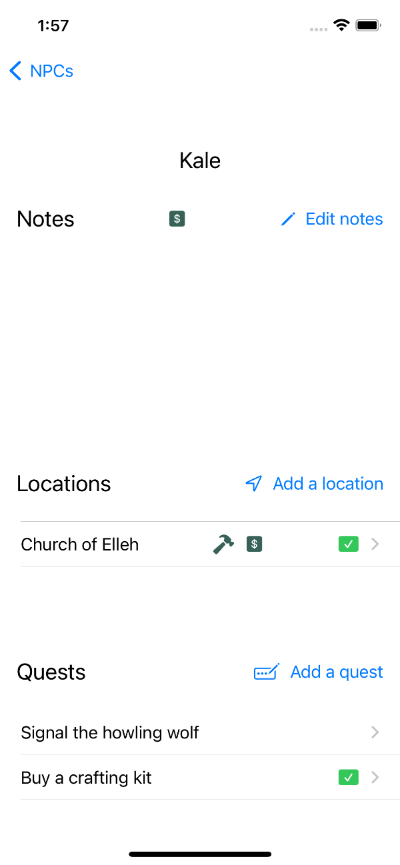
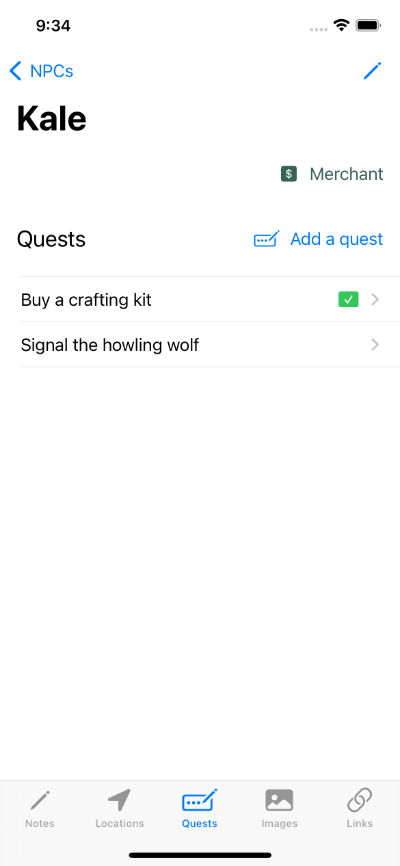
Update website for version 1.3.0

diff --git a/content/app/track-bosses/index.md b/content/app/track-bosses/index.md
@@ -2,7 +2,7 @@
 title: "Track Bosses in your favorite RPGs"
 subtitle: "Details on tracking Bosses with the Shattered Ring app."
 excerpt: "Find out how you can use the Shattered Ring iOS App to track Bosses in your favorite
-RPGs."
+RPGs. Save notes, images, and links for Bosses, and link them to location where you'll find them."
 date: 2022-03-03
 author: "Dachary Carey"
 draft: false
@@ -27,7 +27,8 @@ defeated or undefeated bosses.
 From the Boss list, you can easily browse bosses and see at-a-glance which ones
 you have defeated. You can view all bosses by default, or filter the list to see 
 only defeated or undefeated bosses. A green crown icon at the right of a boss row 
-indicates the boss is defeated.
+indicates the boss is defeated. A green arrow in the boss row means the boss is at
+a specific location.
 
 The search field lets you find Bosses by name, _and_ it also searches the text of the 
 notes you've added for each boss. Read online about a legendary piece of loot a boss
@@ -36,18 +37,40 @@ and you can find which boss dropped it later by searching for it.
 
 ## Track important Boss details
 
-![Screenshot of Boss details on Shattered Ring app, iPhone](boss-detail-light-mode-simulator-cropped.png)
+![Screenshot of Boss details on Shattered Ring app, iPhone](boss-detail-runebear-links-tab-light-mode-simulator-resized-for-website.png)
 
 The Boss view is where you can store details about the bosses you're tracking. 
 
 The top part of the boss view contains a clickable toggle to keep track of whether you've defeated the boss.
 
-Below that, you'll see a boss's location, if you've added one. When you add a boss's location, you can 
-choose from an existing [Location](/app/track-locations/), or create a new one. Bosses only have one location.
+Below that, you'll see a a tabbed view where you can drill deeper into boss details:
 
-And finally, you'll see notes associated with your boss. You can add or edit notes from here. 
-The note area is a scrollable field, so there's no end to how much text you can have in the notes 
-for each boss.
+- Notes
+- Location
+- Images
+- Links
+
+### Notes
+
+When you go into the boss view, the first thing you see is notes associated with your boss. You can add or 
+edit notes from here. You might use this to make note of the items that a boss drops, or strategies for fighting the boss. 
+The note area is a scrollable field, so there's no end to how much text you can have in the notes for each boss. Remember
+that the boss list lets you Search by boss notes, not just name, so if you want to know which boss drops that item you've 
+been looking for, add it to the notes field!
+
+### Location
+
+You can add a location to a boss. When you add a boss's location, you can choose from an existing [Location](/app/track-locations/), or create a new one. Bosses only have one location.
+
+### Images
+
+You can save images to the boss view. Get an epic screenshot during your boss fight and commemorate it. Or if the boss
+tends to roam an area, as in the case of a field boss, you can take a screenshot of the map where you expect to find the boss.
+
+### Links
+
+Save links to your favorite websites related to the boss. Do you have a favorite game guide for how to defeat the boss? Save it here. 
+Want to keep track of what the boss drops? Save the wiki entry. When you click the link, it opens the page in a browser on your iOS device.
 
 ## Easily enter new Bosses
 
@@ -60,6 +83,6 @@ From the Boss list, click the plus icon in the upper-right corner of the screen 
 
 In the new boss form, you can add a name, flip a toggle if the boss is defeated, and hit the `Create Boss` button. You can also add notes when you create the boss, or you can go back later and add them when viewing boss details.
 
-After you create the boss, you can go to the boss's detail view to add a location.
+After you create the boss, you can go to the boss's detail view to add a location, images, or links.
 
 If you create the boss from the location view, the boss is automatically populated with the location whose view you created the boss from.

diff --git a/content/app/track-locations/index.md b/content/app/track-locations/index.md
@@ -2,7 +2,7 @@
 title: "Track Locations in your favorite RPGs"
 subtitle: "Details on tracking Locations with the Shattered Ring app."
 excerpt: "Find out how you can use the Shattered Ring iOS App to track Locations in your favorite
-RPGs."
+RPGs. Save notes, images, and links for locations, and view NPCs or the Boss at a location."
 date: 2022-03-05
 author: "Dachary Carey"
 draft: false
@@ -33,7 +33,12 @@ icons next to `Church of Elleh` in this screenshot give you a quick snapshot:
 
 - The hammer icon means there is a smith anvil at this location
 - The dollar sign icon means there is a merchant at this location
+- The person icon means that there is at least one NPC at the location
 - The green checkmark means the location has been cleared
+
+Farther down, you can see a location with an outline of a crown. That means there's
+a boss at the location. (When the crown is filled in, the boss at the location 
+is defeated!)
 
 You can view all locations by default, or filter the list.
 
@@ -53,18 +58,41 @@ you'll be able to find your location again!
 
 ## Track important Location details
 
-![Screenshot of Location details for Church of Elleh on Shattered Ring app, iPhone](location-detail-church-light-mode-simulator.png)
+![Screenshot of Location details for Limgrave Tunnels on Shattered Ring app, iPhone](location-detail-limgrave-tunnels-light-mode-simulator.png)
 
 The Location view provides details about your important locations. 
 
-The top part of the location view contains a clickable toggle to keep track of whether you've cleared a location. You can also view and edit amenities that are at the location.
+The top part of the location view contains a clickable toggle to keep track of whether you've cleared a location. You can also view and edit amenities that are at the location usin the clickable toggles.
 
-Below that, you'll see location notes, if you've added any. You can edit notes from here. The note area is a scrollable field, so there's no end to how much text you can have in the notes for each location.
+Below that, you'll see a tabbed view where you can drill deeper into location details:
+
+- Notes
+- NPCs
+- Boss
+- Images
+- Links
+
+### Notes
+
+When you open the location view, the first thing you see is location notes, if you've added any. You can edit notes from here. The note area is a scrollable field, so there's no end to how much text you can have in the notes for each location. Remember that the Location List view lets you search the text of the location notes, so if you want to be able to search for a location where you can find a specific item, or with monsters that give a certain type of drop, note it down! Then you can search for it in the Locations list.
+
+### NPCs
 
 You can view NPCs that are at the location, or add new NPCs when NPCs move around. You can click
 into an NPC at a location to view all of their details, such as notes or quests the NPC has given you. For more details, see: [NPCs](/app/track-npcs/).
 
+### Boss
+
 You can view a boss at the location, or add a new boss from the location view. You can click into a boss at a location to view notes you've saved about the boss, or to mark it defeated. For more details, see: [Bosses](/app/track-bosses/).
+
+### Images
+
+You can save images to the location view. This is great if you want to grab a screenshot of 
+the location on the map so you can find it again later more easily.
+
+### Links
+
+Save links to your favorite websites that give you tips for a location. Is there a location walkthrough you want to reference? Save it as a link to the location. When you click the link, it opens the page in a browser on your iOS device.
 
 ## Easily enter new Locations
 

diff --git a/content/faq/index.md b/content/faq/index.md
@@ -43,11 +43,9 @@ or send us an email via [the Support form](/contact/) to request a feature.
 When I have time to add new features to the app, I'll put up a Twitter
 poll to help me prioritize which features to add first.
 
-Currently, features that have been requested include (updated March 17, 2022):
+Currently, features that have been requested include (updated March 31, 2022):
 
 - Preload NPC, Location and Quests data for users to check off
-- Support for adding photos to NPCs, Locations and Quests
-- Link characters/locations/quests to their respective Wiki entries
 - Add the ability to track Regions, with Locations belonging to a Region
 - Translate the Shattered Ring app to other languages (so far I've had requests for Italian, French, and German)
 - Add the ability to track Items, possibly with types like Weapon, Consumable, Key Item, Equipment, Spell, etc. Link them to locations and/or NPC merchants.
@@ -58,10 +56,11 @@ Feature Requests Completed:
 - Add ability to to edit names of NPCs, Locations, and Quests: Release 1.1.0 adds the ability to edit names
 - Add ordering for lists (alphabetical, and/or potentially the ability to move items in lists manually): Release 1.2.0 adds the ability to sort lists alphabetically using the Sort toggle in the menu bar, or you can use the Edit button to manually drag items around in the list. Sort and Edit are mutually exclusive, so if you have the Sort toggle enabled, you won't see the Edit button - untoggle Sort if you want to drag an important item to the top of the list.
 - Add the ability to track Bosses to the app: Release 1.2.0 adds Bosses to the app; you can now create them, view them at locations, add notes to them, and track the ones you've defeated. The Game list now shows defeated vs. undefeated boss counts.
+- Support for adding photos to NPCs, Locations and Quests: Release 1.3.0 adds the ability to save images to NPCs, Locations, Quests, and Bosses. Grab a picture of the game map and save it to the location so it's easier to find again, or get an epic screenshot of a boss fight and save it to your defeated boss. (Or if you don't defeat the boss, save it as a reminder to go back when you're better equipped!) There is a new **Images** tab where you can save as many images as you'd like.
+- Link characters/locations/quests to their respective Wiki entries: Release 1.3.0 adds the ability to add links to NPCs, Locations, Quests, and Bosses. There is a new **Links** tab where you can save as many links as you'd like. Add a link to your favorite wiki, and a link to a walkthrough guide, and a link to items a boss drops or an NPC's inventory - whatever you want to link to! The links are clickable from the app, and open in your iOS device's browser.
 
 I do intend to keep developing Shattered Ring as long as folks are interested
-in using it, so I'm happy to hear any feature requests you might
-have and hope to start shipping new features shortly!
+in using it, so I'm happy to hear any feature requests you might have.
 
 ## Why do the Android and iOS versions of Shattered Ring not have the same features?
 

diff --git a/content/app/track-npcs/index.md b/content/app/track-npcs/index.md
@@ -2,7 +2,7 @@
 title: "Track NPCs in your favorite RPGs"
 subtitle: "Details on tracking NPCs with the Shattered Ring app."
 excerpt: "Find out how you can use the Shattered Ring iOS App to track NPCs in your favorite
-RPGs."
+RPGs. Save notes, images, and links for NPCs, and link them to locations and the quests they give."
 date: 2022-03-06
 author: "Dachary Carey"
 draft: false
@@ -48,17 +48,46 @@ If you jot down that note, you'll be able to find your NPC again!
 
 ![Screenshot of NPC details for Kale on Shattered Ring app, iPhone](npc-detail-kale-light-mode-simulator.png)
 
-The NPC view provides details about your important NPCs. This is where you go to view NPC notes,
-if you've added any. You can edit notes from here, and the note area is a scrollable field, so there's
-no end to how much text you can have in the notes for each NPC.
+The NPC view provides details about your important non-player characters. 
+
+The top part of the NPC view contains a clickable toggle to note whether the NPC is a merchant.
+You can use this in the NPC list to filter on NPCs that are merchants.
+
+Below that, you'll see a tabbed view where you can drill deeper into NPC details:
+
+- Notes
+- Locations
+- Quests
+- Images
+- Links
+
+### Notes
+
+When you open the NPC view, the first thing you'll see is NPC notes. You can edit notes from here, and the note area is a scrollable field, so there's no end to how much text you can have in the notes for each NPC. Keep track of important bits of dialogue, or note down items that the NPC sells. Remember that you can search the contents of notes from the NPC list view, so if you can't remember which NPC sells the item you're looking for, jot it down for the notes and then search for it later in the NPC list!
+
+### Locations
 
 You can view the location of an NPC, or add new locations to the NPC if the NPC moves around. 
 The location list shows you amenities that are at the location, and whether or not you've
 cleared a location. For more details, see: [Locations](/app/track-locations/).
 
+### Quests
+
 You can also view the quests that the NPC has given you, or add new quests as the game progresses.
 The quest list shows a green checkbox for quests you have completed. For more details, see: 
 [Quests](/app/track-quests/).
+
+### Images
+
+You can store images for the NPC. Grab a screenshot of the NPC's inventory if you don't
+want to type it all out in the notes, or just a screenshot to help you remember what they look like
+so you can more easily find the NPC again. You can also grab a screenshot of the map to help you
+remember where to find an NPC. 
+
+### Links
+
+Save links to your favorite websites that give you the information you want about your NPCs. Is there a great walkthroughs for NPC quests? Save a link to it. Do you want to reference lore about the NPC?
+Add a link to the NPC's wiki. When you click a link, it opens the page in a browser on your iOS device.
 
 ## Easily enter new NPCs
 

diff --git a/content/app/track-quests/index.md b/content/app/track-quests/index.md
@@ -2,7 +2,7 @@
 title: "Track Quests in your favorite RPGs"
 subtitle: "Details on tracking Quests with the Shattered Ring app."
 excerpt: "Find out how you can use the Shattered Ring iOS App to track Quests in your favorite
-RPGs."
+RPGs. Save notes, images, and links for quests, and link them to NPCs who give them."
 date: 2022-03-04
 author: "Dachary Carey"
 draft: false
@@ -36,18 +36,45 @@ quest again!
 
 ## Track important Quest details
 
-![Screenshot of Quest details on Shattered Ring app, iPhone](quest-detail-signal-wolf-light-mode-simulator-cropped.png)
+![Screenshot of Quest details on Shattered Ring app, iPhone](quest-detail-erd-tree-light-mode-simulator-cropped.png)
 
 The Quest view provides details about your important quests. 
 
 The top part of the quest view contains a clickable toggle to keep track of whether you've completed the quest.
 
-Below that, you'll see a quest giver, if you've added one. When you add a quest-giver, you can 
-choose from an existing [NPC](/app/track-npcs/), or create a new one. Quests only have one quest giver.
+Below that, you'll see a tabbed view where you can drill deeper into quest details:
 
-And finally, you'll see notes associated with your quest. You can add or edit notes from here. 
+- Notes
+- Quest Giver
+- Images
+- Links
+
+### Notes
+
+When you open the quest view, you'll see notes associated with your quest. You can add or edit notes from here. 
 The note area is a scrollable field, so there's no end to how much text you can have in the notes 
-for each quest.
+for each quest. 
+
+Remember that the Quest list lets you search the text of quest notes, so if you want to search for a quest that gives you a specific item as a reward, or requires a specific item to complete it, jot it down in the notes. Then you can search for that item later when you want to remember which quest it was for or which quest giver has the item you want!
+
+### Quest Giver
+
+When you click into this tab, you'll see a quest giver, if you've added one. When you add a quest-giver, you can choose from an existing [NPC](/app/track-npcs/), or create a new one. Quests only have one quest giver.
+
+The quest giver is a clickable link that takes you to the NPC who gave you the quest, where you can 
+check out NPC notes or the location to go back to the NPC after completing the quest.
+
+### Images
+
+You can save images to the quest view. This is great if you want to grab a screenshot of an important
+quest-related location on the map to help you find it more easily. Or if you want to grab an image
+of an NPC related to a quest, or an item or monster related to the quest.
+
+### Links
+
+Save links to your favorite quest walkthroughs and wiki entries. You can add as many links as 
+you'd like, so if you like more than one walkthrough because they provide different info,
+link them all! When you click a link, it opens the page in a browser on your iOS device.
 
 ## Easily enter new Quests
 

diff --git a/content/about/main/index.md b/content/about/main/index.md
@@ -10,7 +10,7 @@ intro: |
 
   I wanted an iPhone app that would allow me to easily track NPCs, Locations, and Quests. I couldn't find one on the App Store, so I wrote one, modeled after a task tracker app. I designed it to be easy to enter, find, and update info about RPG games. It works great as a campaign tracker for D&D and other TTRPGs, too!
 
-  As folks have started using the app, they've been requesting new features. Boss tracking is one of them, and I'm working on rolling out more fan-requested features. See the [FAQ](/faq/) for a list
+  As folks have started using the app, they've been requesting new features. Boss tracking, adding images to entries, and adding links to entries are all fan-requested features. See the [FAQ](/faq/) for a list
   of current feature requests, and [follow Shattered Ring on Twitter](https://twitter.com/shattered_ring) to vote for the features you want to see in the app or find out what's coming in new releases.
 show_outro: true
 outro: |

diff --git a/content/app/games/index.md b/content/app/games/index.md
@@ -2,7 +2,7 @@
 title: "Track Multiple Games"
 subtitle: "Track Multiple Games or Playthroughs in your favorite RPGs"
 excerpt: "Track multiple Elden Ring playthroughs, or a mix of RPG games."
-date: 2022-03-03
+date: 2022-03-02
 author: "Dachary Carey"
 draft: false
 # tags:
